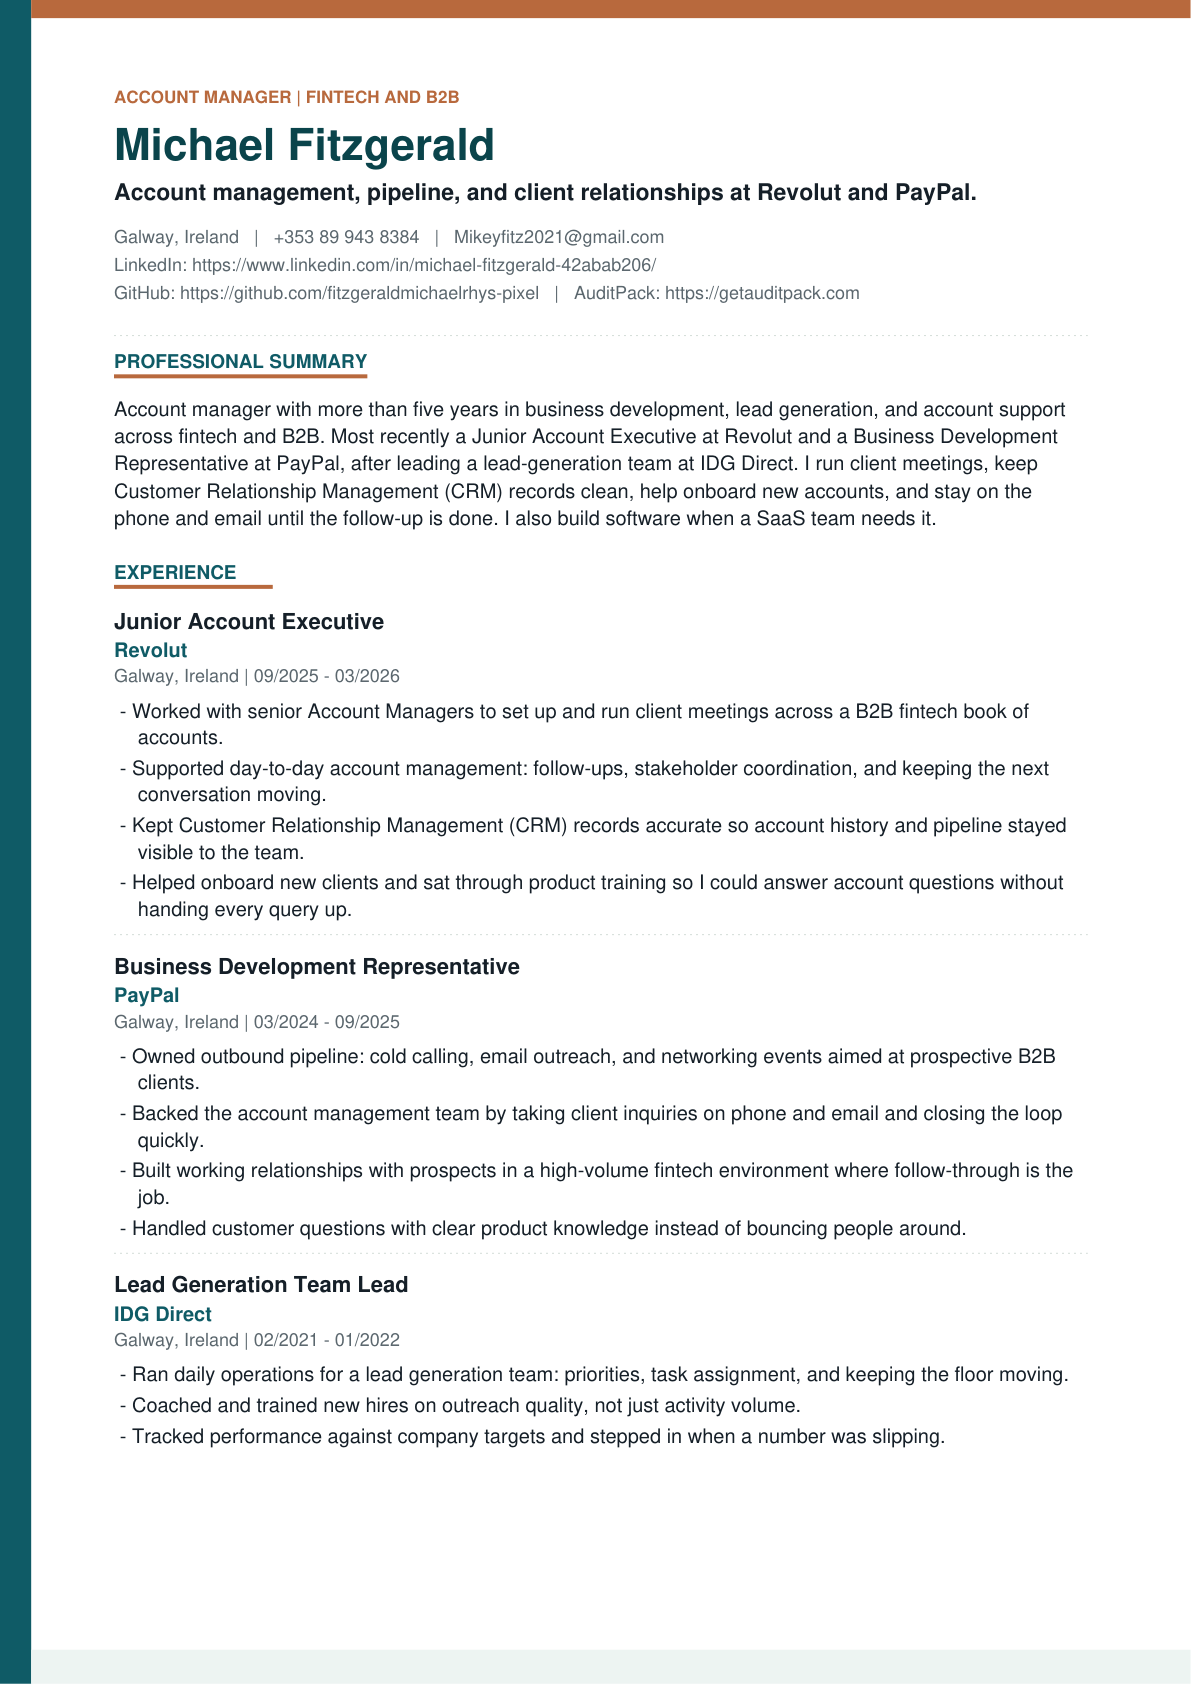
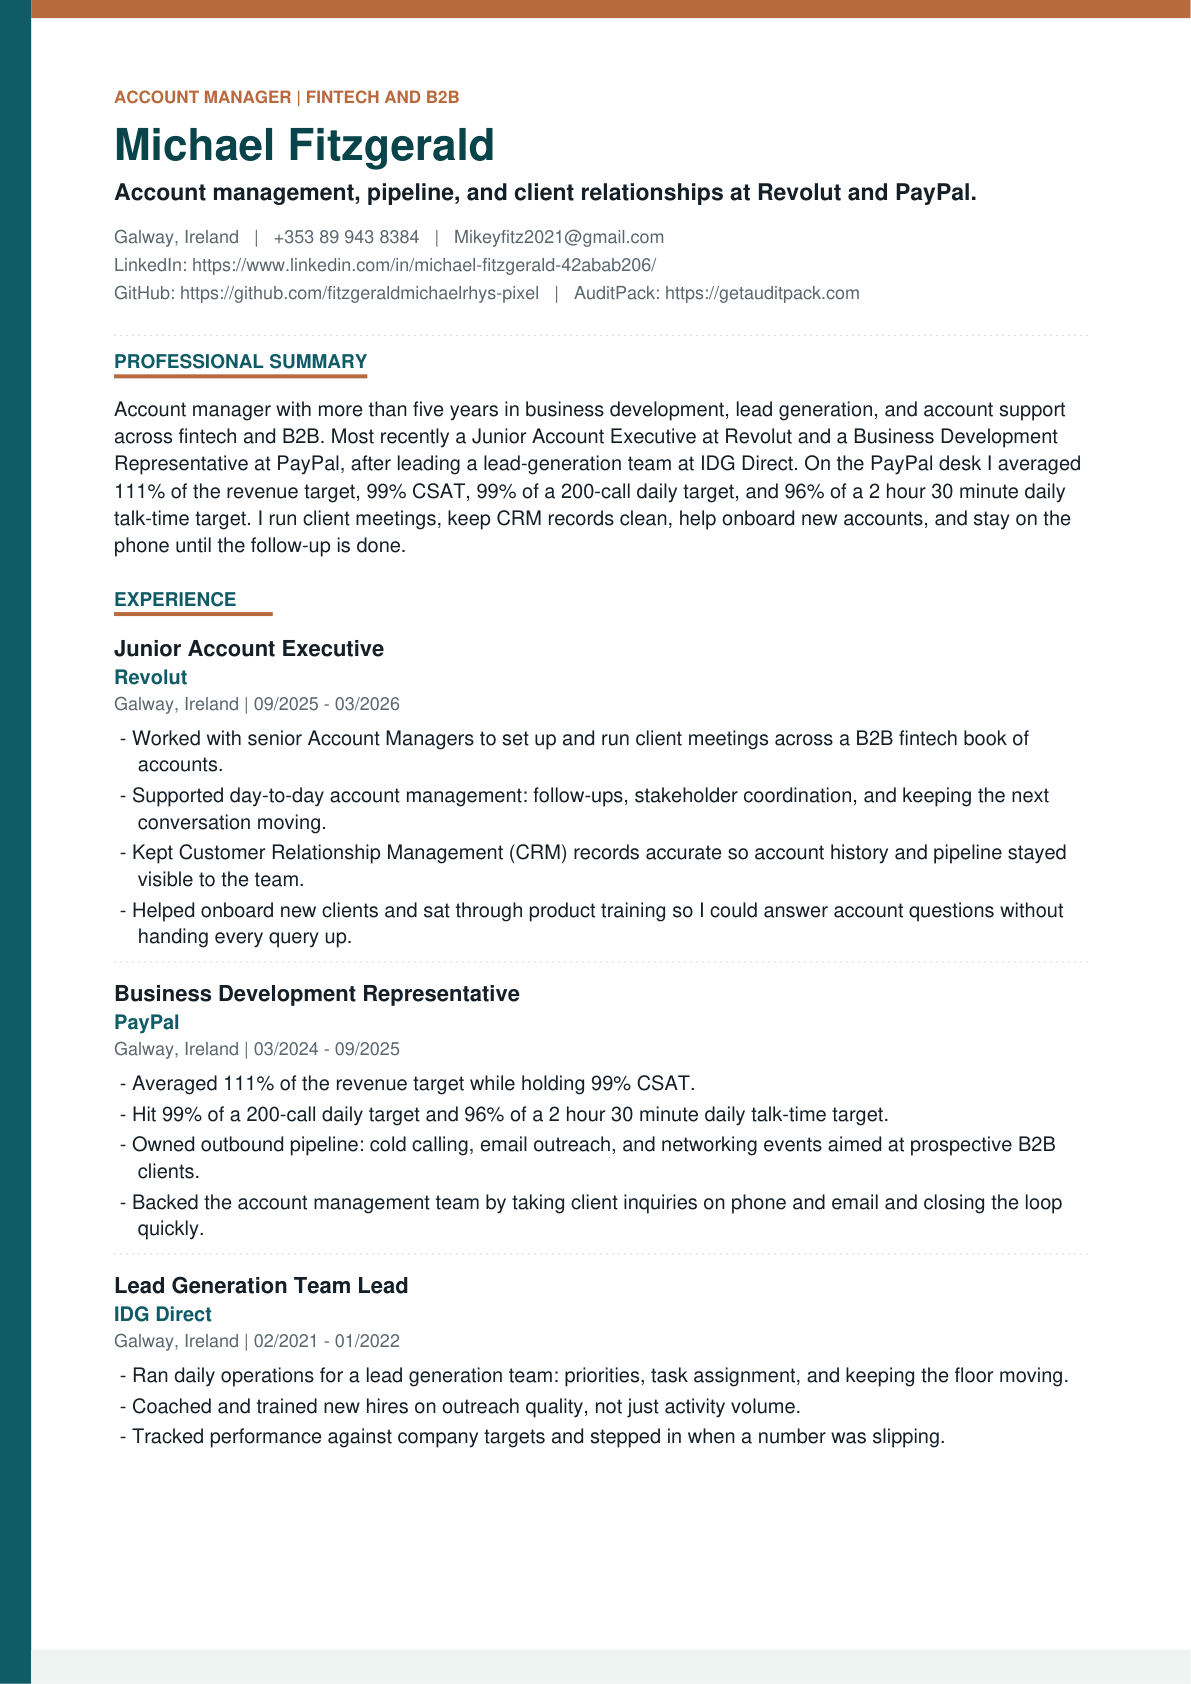
Add PayPal BDR scorecard (CSAT, talk time, calls, revenue) to the live site and CV.

Changed region(s): [[0.0932, 0.247, 0.9009, 0.8337], [0.1243, 0.772, 0.2796, 0.8337], [0.7145, 0.8029, 0.7456, 0.8337]]

diff --git a/src/content/site.ts b/src/content/site.ts
@@ -2,7 +2,7 @@ export const SITE = {
   name: 'Michael Fitzgerald',
   title: 'Account Manager · Fintech and B2B',
   oneLiner:
-    'Account management and business development at Revolut and PayPal. I also ship software, but client work is the main job. Open to account manager, account executive, and BDR roles in fintech and B2B SaaS.',
+    'Account management and business development at Revolut and PayPal. On the PayPal BDR desk I was measured on CSAT, talk time, call activity, and revenue — and I cleared the line on all four. I also ship software, but client work is the main job.',
   email: 'Mikeyfitz2021@gmail.com',
   phone: '+353 89 943 8384',
   phoneHref: 'tel:+353899438384',
@@ -19,10 +19,20 @@ export const SITE = {
 } as const
 
 export const HIGHLIGHTS = [
-  { value: '5+', label: 'Years in sales and BD' },
-  { value: 'AE', label: 'Revolut and PayPal' },
-  { value: '2', label: 'Shipped systems' },
-  { value: 'BSc', label: 'Computer Science' },
+  { value: '111%', label: 'Revenue vs target' },
+  { value: '99%', label: 'CSAT average' },
+  { value: '99%', label: 'Of 200-call daily target' },
+  { value: '96%', label: 'Of 2h 30m daily talk time' },
+] as const
+
+/** PayPal BDR scorecard — numbers Michael was managed on. Do not invent extras. */
+export const PAYPAL_SCORECARD = [
+  { value: '111%', label: 'Revenue vs target' },
+  { value: '99%', label: 'Customer satisfaction (CSAT)' },
+  { value: '99%', label: 'Call-target adherence' },
+  { value: '96%', label: 'Talk-time adherence' },
+  { value: '200', label: 'Daily call target' },
+  { value: '2h 30m', label: 'Daily talk-time target' },
 ] as const
 
 export const TRACKS = {
@@ -31,7 +41,7 @@ export const TRACKS = {
     lede: 'Client-facing work in fast B2B environments where pipeline, CRM hygiene, and follow-through actually matter.',
     points: [
       'Junior Account Executive at Revolut: client meetings, CRM, and onboarding support',
-      'Business Development Representative at PayPal: outbound outreach, pipeline, and account support',
+      'PayPal BDR: 111% of revenue target, 99% CSAT, 99% of a 200-call day, 96% of 2h 30m talk time — volume without burning the customer',
       'Lead Generation Team Lead at IDG Direct: coaching, daily metrics, and floor operations',
       'Comfortable on phone and email, in CRM tools, and against a number',
     ],

diff --git a/src/content/experience.ts b/src/content/experience.ts
@@ -1,4 +1,16 @@
-export const EXPERIENCE = [
+export type RoleMetric = {
+  value: string
+  label: string
+}
+
+export const EXPERIENCE: {
+  company: string
+  role: string
+  period: string
+  place: string
+  bullets: string[]
+  metrics?: RoleMetric[]
+}[] = [
   {
     company: 'Revolut',
     role: 'Junior Account Executive',
@@ -16,11 +28,17 @@ export const EXPERIENCE = [
     role: 'Business Development Representative',
     period: '03/2024 – 09/2025',
     place: 'Galway, Ireland',
+    metrics: [
+      { value: '111%', label: 'Revenue vs target' },
+      { value: '99%', label: 'CSAT' },
+      { value: '99%', label: 'Of 200 calls / day' },
+      { value: '96%', label: 'Of 2h 30m talk time' },
+    ],
     bullets: [
+      'Averaged 111% of the revenue target while holding 99% CSAT — commercial result without burning the customer.',
+      'Hit 99% of a 200-call daily target and 96% of a 2 hour 30 minute daily talk-time target: activity and real conversation time, not empty dials.',
       'Owned outbound pipeline: cold calling, email outreach, and networking events aimed at prospective B2B clients.',
       'Backed the account management team by taking client inquiries on phone and email and closing the loop quickly.',
-      'Built working relationships with prospects in a high-volume fintech environment where follow-through is the job.',
-      'Handled customer questions with clear product knowledge instead of bouncing people around.',
     ],
   },
   {
@@ -44,7 +62,7 @@ export const EXPERIENCE = [
       'Researched prospective clients using online tools and databases.',
     ],
   },
-] as const
+]
 
 export const EDUCATION = [
   {

diff --git a/src/components/Scorecard.module.css b/src/components/Scorecard.module.css
@@ -1,0 +1,74 @@
+.section {
+  text-align: left;
+  max-width: 52rem !important;
+}
+
+.header {
+  margin-bottom: 1.5rem;
+  max-width: 40rem;
+}
+
+.eyebrow {
+  margin: 0 0 0.5rem;
+  font-family: var(--font-mono);
+  font-size: var(--text-xs);
+  letter-spacing: var(--tracking-wider);
+  text-transform: uppercase;
+  color: var(--ws-teal);
+}
+
+.title {
+  margin: 0;
+  font-family: var(--font-display);
+  font-size: clamp(1.6rem, 1.3rem + 1.2vw, 2.15rem);
+  font-weight: var(--weight-semibold);
+  line-height: 1.15;
+  color: var(--ws-ink);
+}
+
+.lede {
+  margin: 0.75rem 0 0;
+  font-size: var(--text-sm);
+  line-height: var(--leading-relaxed);
+  color: var(--ws-muted);
+}
+
+.grid {
+  list-style: none;
+  margin: 0;
+  padding: 0;
+  display: grid;
+  grid-template-columns: repeat(3, minmax(0, 1fr));
+  gap: 0.85rem;
+}
+
+.item {
+  display: flex;
+  flex-direction: column;
+  gap: 0.4rem;
+  padding: 1.1rem 1rem 1rem;
+  background: var(--ws-frame);
+  border: 1px solid var(--ws-line);
+  border-radius: var(--radius-md);
+  border-top: 3px solid var(--ws-teal);
+}
+
+.value {
+  font-family: var(--font-display);
+  font-size: clamp(1.45rem, 1.2rem + 0.8vw, 1.85rem);
+  font-weight: 600;
+  color: var(--ws-teal);
+  line-height: 1;
+}
+
+.label {
+  font-size: var(--text-xs);
+  line-height: 1.35;
+  color: var(--ws-faint);
+}
+
+@media (max-width: 720px) {
+  .grid {
+    grid-template-columns: repeat(2, minmax(0, 1fr));
+  }
+}

diff --git a/src/components/Scorecard.tsx b/src/components/Scorecard.tsx
@@ -1,0 +1,29 @@
+import { PAYPAL_SCORECARD } from '../content/site'
+import styles from './Scorecard.module.css'
+
+export function Scorecard() {
+  return (
+    <section className={styles.section} aria-labelledby="scorecard-heading">
+      <header className={styles.header}>
+        <p className={styles.eyebrow}>PayPal BDR desk</p>
+        <h2 id="scorecard-heading" className={styles.title}>
+          What I was measured on
+        </h2>
+        <p className={styles.lede}>
+          Averages on the Business Development desk. The combination is the point:
+          I hit the commercial number, the activity number, and customer
+          satisfaction in the same seat — the profile a high-volume outbound team
+          actually keeps.
+        </p>
+      </header>
+      <ul className={styles.grid}>
+        {PAYPAL_SCORECARD.map((item) => (
+          <li key={item.label} className={styles.item}>
+            <span className={styles.value}>{item.value}</span>
+            <span className={styles.label}>{item.label}</span>
+          </li>
+        ))}
+      </ul>
+    </section>
+  )
+}

diff --git a/src/components/Experience.module.css b/src/components/Experience.module.css
@@ -115,6 +115,38 @@
   color: var(--ws-faint);
 }
 
+.metrics {
+  list-style: none;
+  margin: 0 0 0.9rem;
+  padding: 0;
+  display: grid;
+  grid-template-columns: repeat(4, minmax(0, 1fr));
+  gap: 0.55rem;
+}
+
+.metrics li {
+  display: flex;
+  flex-direction: column;
+  gap: 0.2rem;
+  padding: 0.55rem 0.6rem 0.5rem;
+  background: var(--ws-mat);
+  border-radius: var(--radius-sm);
+}
+
+.metricValue {
+  font-family: var(--font-display);
+  font-size: var(--text-base);
+  font-weight: 600;
+  color: var(--ws-teal);
+  line-height: 1;
+}
+
+.metricLabel {
+  font-size: 0.68rem;
+  line-height: 1.3;
+  color: var(--ws-faint);
+}
+
 .bullets {
   margin: 0;
   padding-left: 1.1rem;
@@ -137,5 +169,9 @@
   .header {
     position: static;
     margin-bottom: 1.25rem;
+  }
+
+  .metrics {
+    grid-template-columns: repeat(2, minmax(0, 1fr));
   }
 }

diff --git a/src/components/Experience.tsx b/src/components/Experience.tsx
@@ -29,6 +29,16 @@ export function Experience() {
                   {entry.role}
                   <span className={styles.place}> · {entry.place}</span>
                 </p>
+                {entry.metrics ? (
+                  <ul className={styles.metrics} aria-label={`${entry.company} scorecard`}>
+                    {entry.metrics.map((metric) => (
+                      <li key={metric.label}>
+                        <span className={styles.metricValue}>{metric.value}</span>
+                        <span className={styles.metricLabel}>{metric.label}</span>
+                      </li>
+                    ))}
+                  </ul>
+                ) : null}
                 <ul className={styles.bullets}>
                   {entry.bullets.map((bullet) => (
                     <li key={bullet}>{bullet}</li>

diff --git a/index.html b/index.html
@@ -126,9 +126,10 @@
         <h3>Business Development Representative — PayPal</h3>
         <p>Galway, Ireland · 03/2024 – 09/2025</p>
         <ul>
+          <li>Averaged 111% of the revenue target and 99% CSAT.</li>
+          <li>Hit 99% of a 200-call daily target and 96% of a 2 hour 30 minute daily talk-time target.</li>
           <li>Generated pipeline through targeted outbound outreach: cold calling, email, and networking events.</li>
           <li>Supported account management by resolving client inquiries by phone and email.</li>
-          <li>Built relationships with prospective B2B clients in a fast-paced fintech environment.</li>
         </ul>
         <h3>Lead Generation Team Lead — IDG Direct</h3>
         <p>Galway, Ireland · 02/2021 – 01/2022</p>

diff --git a/src/App.tsx b/src/App.tsx
@@ -1,5 +1,6 @@
 import { Nav } from './components/Nav'
 import { Hero } from './components/Hero'
+import { Scorecard } from './components/Scorecard'
 import { DualTracks } from './components/DualTracks'
 import { Experience } from './components/Experience'
 import { Education } from './components/Education'
@@ -23,6 +24,11 @@ export default function App() {
         <Hero />
         <Reveal>
           <section className={`${styles.bandWide} ${styles.bandTint}`}>
+            <Scorecard />
+          </section>
+        </Reveal>
+        <Reveal>
+          <section className={styles.bandWide}>
             <DualTracks />
           </section>
         </Reveal>

diff --git a/scripts/generate_cv.py b/scripts/generate_cv.py
@@ -248,9 +248,10 @@ def build() -> None:
             "Account manager with more than five years in business development, lead generation, "
             "and account support across fintech and B2B. Most recently a Junior Account Executive "
             "at Revolut and a Business Development Representative at PayPal, after leading a "
-            "lead-generation team at IDG Direct. I run client meetings, keep Customer Relationship "
-            "Management (CRM) records clean, help onboard new accounts, and stay on the phone and "
-            "email until the follow-up is done. I also build software when a SaaS team needs it.",
+            "lead-generation team at IDG Direct. On the PayPal desk I averaged 111% of the revenue "
+            "target, 99% CSAT, 99% of a 200-call daily target, and 96% of a 2 hour 30 minute daily "
+            "talk-time target. I run client meetings, keep CRM records clean, help onboard new "
+            "accounts, and stay on the phone until the follow-up is done.",
             s["body"],
         )
     )
@@ -274,10 +275,10 @@ def build() -> None:
             "PayPal",
             "Galway, Ireland  |  03/2024 - 09/2025",
             [
+                "Averaged 111% of the revenue target while holding 99% CSAT.",
+                "Hit 99% of a 200-call daily target and 96% of a 2 hour 30 minute daily talk-time target.",
                 "Owned outbound pipeline: cold calling, email outreach, and networking events aimed at prospective B2B clients.",
                 "Backed the account management team by taking client inquiries on phone and email and closing the loop quickly.",
-                "Built working relationships with prospects in a high-volume fintech environment where follow-through is the job.",
-                "Handled customer questions with clear product knowledge instead of bouncing people around.",
             ],
         ),
         (
